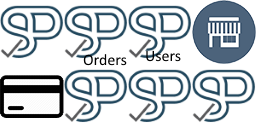
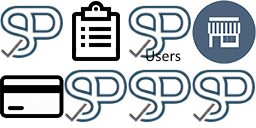
charge fix

Changed region(s): [[0.25, 0.0, 0.5, 0.5312]]

diff --git a/web/view/theme/spg/assets/spg-theme.css b/web/view/theme/spg/assets/spg-theme.css
@@ -74,7 +74,7 @@ body.spg-theme > nav > a > div.nav-icon {
     margin: 0 0;
 }
 /* body.spg-theme > nav > a > div.nav-logo-icon { background-position: 0 0; } */
-/* body.spg-theme > nav > a > div.nav-order-icon {background-position: -64px 0;} */
+body.spg-theme > nav > a > div.nav-order-icon {background-position: -64px 0;}
 /* body.spg-theme > nav > a > div.nav_-ser-icon { background-position: -128px 0; } */
 body.spg-theme > nav > a > div.nav-merchant-icon {background-position: -192px 0;}
 body.spg-theme > nav > a > div.nav-charge-icon {background-position: 0 -64px;}

diff --git a/web/order/view/.view.php b/web/order/view/.view.php
@@ -14,7 +14,7 @@ $SessionUser = $SessionManager->getSessionUser();
     <a href="javascript:window.print();" class="button">Print <div class="submenu-icon submenu-icon-print"></div></a>
     <a href="<?php echo $action_url; ?>download" class="button">Download PDF <div class="submenu-icon submenu-icon-download"></div></a>
     <a href="<?php echo $action_url; ?>email" class="button">Send as Email <div class="submenu-icon submenu-icon-email"></div></a>
-    <a href="<?php echo $action_url; ?>bookmark" class="button">Bookmark URL <div class="submenu-icon submenu-icon-bookmark"></div></a>
+<!--    <a href="--><?php //echo $action_url; ?><!--bookmark" class="button">Bookmark URL <div class="submenu-icon submenu-icon-bookmark"></div></a>-->
     <?php if($SessionUser->hasAuthority('ROLE_ADMIN')) { ?>
         <a href="order?" class="button">Orders <div class="submenu-icon submenu-icon-list"></div></a>
         <a href="transaction/charge.php?" class="button">Charge  <div class="submenu-icon submenu-icon-charge"></div></a>
@@ -167,6 +167,7 @@ $SessionUser = $SessionManager->getSessionUser();
                     <th>Fee</th>
                     <th>Action</th>
                     <th>Merchant</th>
+                    <th>Action</th>
                 </tr>
                 <?php
                 /** @var \Transaction\Model\TransactionRow $Transaction */
@@ -186,6 +187,7 @@ $SessionUser = $SessionManager->getSessionUser();
                         <td>$<?php echo $Transaction->getServiceFee(); ?></td>
                         <td><?php echo $Transaction->getAction(); ?></td>
                         <td><a href='merchant?id=<?php echo $Transaction->getMerchantID(); ?>'><?php echo $Transaction->getMerchantShortName(); ?></a></td>
+                        <td>&nbsp;</td>
                     </tr>
                 <?php } ?>
             </table>
